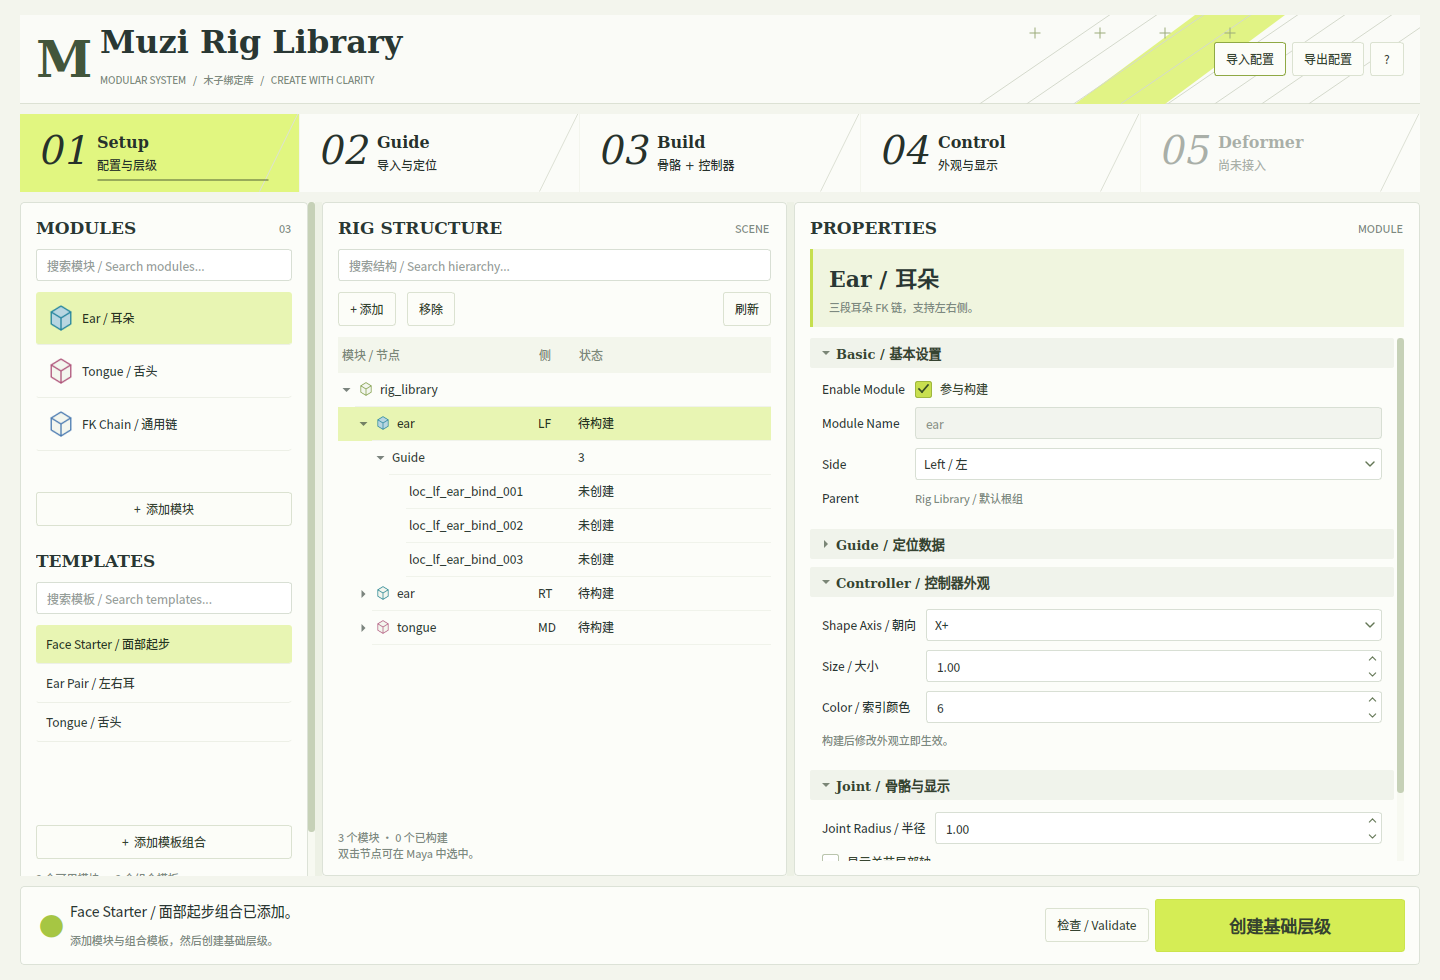
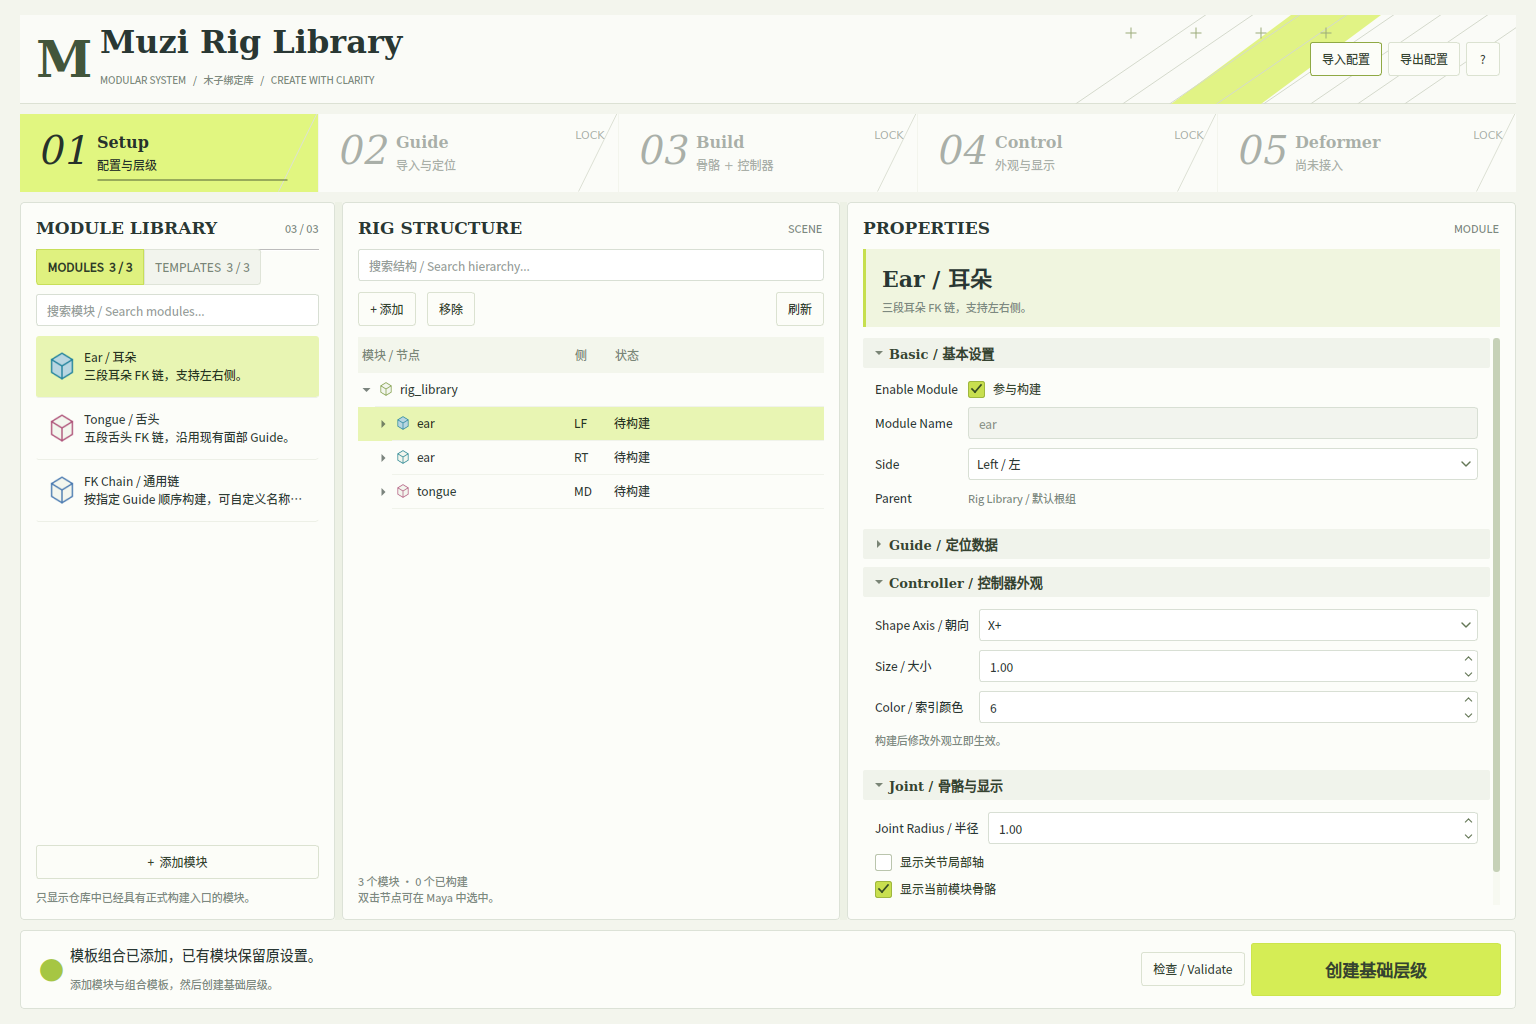
feat: refine rig library module and template browser

diff --git a/systems/rig/ui/modular_rig_ui.py b/systems/rig/ui/modular_rig_ui.py
@@ -112,41 +112,52 @@ class ModularRigWindow(QtWidgets.QWidget):
         self.splitter = QtWidgets.QSplitter(Qt.Horizontal)
         self.splitter.setChildrenCollapsible(False)
         self.splitter.setHandleWidth(7)
-        self.left_panel, left = self._panel(u"MODULES", "03")
+        self.left_panel, left = self._panel(u"MODULE LIBRARY", "03 / 03")
         self.left_panel.setMinimumWidth(225)
-        left.setSizeConstraint(QtWidgets.QLayout.SetMinAndMaxSize)
+
+        self.library_tabs = QtWidgets.QTabWidget()
+        self.library_tabs.setObjectName("LibraryTabs")
+        self.library_tabs.setDocumentMode(True)
+
+        self.module_page = QtWidgets.QWidget()
+        module_layout = QtWidgets.QVBoxLayout(self.module_page)
+        module_layout.setContentsMargins(0, 10, 0, 0)
+        module_layout.setSpacing(10)
         self.module_search = QtWidgets.QLineEdit()
         self.module_search.setPlaceholderText(u"搜索模块 / Search modules...")
         self.module_search.textChanged.connect(self.filter_modules)
-        left.addWidget(self.module_search)
+        module_layout.addWidget(self.module_search)
         self.module_list = QtWidgets.QListWidget()
-        self.module_list.setIconSize(QtCore.QSize(30, 30))
-        self.module_list.setMinimumHeight(176)
+        self.module_list.setIconSize(QtCore.QSize(32, 32))
         self.module_list.itemDoubleClicked.connect(self.add_selected_module)
-        left.addWidget(self.module_list, 1)
+        module_layout.addWidget(self.module_list, 1)
         self.add_button = button(u"+  添加模块", self.add_selected_module)
-        left.addWidget(self.add_button)
-        left.addSpacing(14)
-        left.addWidget(label("TEMPLATES", "panelTitle"))
+        module_layout.addWidget(self.add_button)
+        module_note = label(u"只显示仓库中已经具有正式构建入口的模块。", "muted")
+        module_note.setWordWrap(True)
+        module_layout.addWidget(module_note)
+
+        self.template_page = QtWidgets.QWidget()
+        template_layout = QtWidgets.QVBoxLayout(self.template_page)
+        template_layout.setContentsMargins(0, 10, 0, 0)
+        template_layout.setSpacing(10)
         self.template_search = QtWidgets.QLineEdit()
         self.template_search.setPlaceholderText(u"搜索模板 / Search templates...")
         self.template_search.textChanged.connect(self.filter_templates)
-        left.addWidget(self.template_search)
+        template_layout.addWidget(self.template_search)
         self.template_list = QtWidgets.QListWidget()
-        self.template_list.setMinimumHeight(155)
+        self.template_list.setIconSize(QtCore.QSize(32, 32))
         self.template_list.itemDoubleClicked.connect(self.add_selected_template)
-        left.addWidget(self.template_list, 1)
-        left.addWidget(button(u"+  添加模板组合", self.add_selected_template))
-        note = label(u"3 个可用模块 · 3 个组合模板\n面部 Guide 沿用仓库现有模板", "muted")
-        note.setWordWrap(True)
-        left.addWidget(note)
-        self.library_scroll = QtWidgets.QScrollArea()
-        self.library_scroll.setWidgetResizable(True)
-        self.library_scroll.setFrameShape(QtWidgets.QFrame.NoFrame)
-        self.library_scroll.setMinimumWidth(245)
-        self.library_scroll.setHorizontalScrollBarPolicy(Qt.ScrollBarAlwaysOff)
-        self.library_scroll.setWidget(self.left_panel)
-        self.splitter.addWidget(self.library_scroll)
+        template_layout.addWidget(self.template_list, 1)
+        template_layout.addWidget(button(u"+  添加模板组合", self.add_selected_template))
+        template_note = label(u"模板仅组合当前可用模块，不包含 Maya 场景数据。", "muted")
+        template_note.setWordWrap(True)
+        template_layout.addWidget(template_note)
+
+        self.library_tabs.addTab(self.module_page, u"MODULES  03")
+        self.library_tabs.addTab(self.template_page, u"TEMPLATES  03")
+        left.addWidget(self.library_tabs, 1)
+        self.splitter.addWidget(self.left_panel)
 
         self.center_panel, center = self._panel("RIG STRUCTURE", "SCENE")
         self.center_panel.setMinimumWidth(315)
@@ -155,7 +166,7 @@ class ModularRigWindow(QtWidgets.QWidget):
         self.tree_search.textChanged.connect(self.filter_tree)
         center.addWidget(self.tree_search)
         toolbar = QtWidgets.QHBoxLayout()
-        toolbar.addWidget(button(u"+ 添加", self.add_selected_module))
+        toolbar.addWidget(button(u"+ 添加", self.open_module_library, u"切换到左侧模块库"))
         self.remove_button = button(u"移除", self.remove_current, u"仅移除尚未构建的模块配置")
         toolbar.addWidget(self.remove_button)
         toolbar.addStretch(1)
@@ -325,17 +336,22 @@ class ModularRigWindow(QtWidgets.QWidget):
     def _populate_library(self):
         u"""目录完全来自已登记模块，不展示旧界面的演示数据。"""
         for entry in catalog.modules:
-            item = QtWidgets.QListWidgetItem(module_icon(entry["color"]), entry["title"])
+            item_text = u"{}\n{}".format(entry["title"], entry["description"])
+            item = QtWidgets.QListWidgetItem(module_icon(entry["color"]), item_text)
+            item.setSizeHint(QtCore.QSize(0, 62))
             item.setData(Qt.UserRole, entry["key"])
             item.setToolTip(entry["description"])
             self.module_list.addItem(item)
         for entry in catalog.templates:
-            item = QtWidgets.QListWidgetItem(entry["title"])
+            item_text = u"{}\n{}".format(entry["title"], entry["description"])
+            item = QtWidgets.QListWidgetItem(module_icon("#8fac35"), item_text)
+            item.setSizeHint(QtCore.QSize(0, 62))
             item.setData(Qt.UserRole, entry["key"])
             item.setToolTip(entry["description"])
             self.template_list.addItem(item)
         self.module_list.setCurrentRow(0)
         self.template_list.setCurrentRow(0)
+        self._update_library_counts()
 
     def _filter_list(self, widget, text):
         for index in range(widget.count()):
@@ -345,10 +361,37 @@ class ModularRigWindow(QtWidgets.QWidget):
     def filter_modules(self, text):
         u"""按名称和说明过滤模块。"""
         self._filter_list(self.module_list, text)
+        self._update_library_counts()
 
     def filter_templates(self, text):
         u"""按名称和组成过滤模板。"""
         self._filter_list(self.template_list, text)
+        self._update_library_counts()
+
+    def _visible_item_count(self, widget):
+        u"""统计搜索后仍可见的目录项目。"""
+        count = 0
+        for index in range(widget.count()):
+            if not widget.item(index).isHidden():
+                count += 1
+        return count
+
+    def _update_library_counts(self):
+        u"""在 Tab 标题中显示可见数和总数。"""
+        self.library_tabs.setTabText(
+            0,
+            u"MODULES  {} / {}".format(self._visible_item_count(self.module_list), self.module_list.count())
+        )
+        self.library_tabs.setTabText(
+            1,
+            u"TEMPLATES  {} / {}".format(self._visible_item_count(self.template_list), self.template_list.count())
+        )
+
+    def open_module_library(self):
+        u"""从结构工具栏回到模块目录，准备添加新模块。"""
+        self.library_tabs.setCurrentIndex(0)
+        self.module_search.setFocus()
+        self._status(u"请从左侧选择模块，双击或点击“添加模块”。")
 
     def filter_tree(self, text):
         u"""保留命中子节点的父模块，便于从搜索结果定位层级。"""

diff --git a/tests/rig_library_qt_test.py b/tests/rig_library_qt_test.py
@@ -37,6 +37,10 @@ class RigLibraryQtTests(unittest.TestCase):
         self.window.module_search.setText("tongue")
         self.assertTrue(self.window.module_list.item(0).isHidden())
         self.assertFalse(self.window.module_list.item(1).isHidden())
+        self.assertEqual(self.window.library_tabs.tabText(0), "MODULES  1 / 3")
+        self.window.library_tabs.setCurrentIndex(1)
+        self.window.template_search.setText("Ear Pair")
+        self.assertEqual(self.window.library_tabs.tabText(1), "TEMPLATES  1 / 3")
         self.window.tree_search.setText("tongue")
         root = self.window.module_tree.topLevelItem(0)
         self.assertTrue(root.child(0).isHidden())
@@ -73,10 +77,16 @@ class RigLibraryQtTests(unittest.TestCase):
         application.processEvents()
         for step in self.window.step_buttons:
             self.assertEqual(step.height(), 78)
-        self.assertGreater(self.window.library_scroll.verticalScrollBar().maximum(), 0)
-        self.assertGreater(self.window.template_search.y(), self.window.module_list.geometry().bottom())
+        self.assertEqual(self.window.library_tabs.count(), 2)
+        self.assertGreater(self.window.module_list.viewport().height(), 150)
         self.assertGreater(self.window.build_button.width(), 200)
         self.assertTrue(self.window.windowFlags() & Qt.WindowMinimizeButtonHint)
+
+    def test_structure_add_button_opens_module_library(self):
+        self.window.library_tabs.setCurrentIndex(1)
+        self.window.open_module_library()
+        self.assertEqual(self.window.library_tabs.currentIndex(), 0)
+        self.assertTrue(self.window.module_search.hasFocus())
 
     def test_inline_validation_preserves_records(self):
         self.window.add_selected_module()

diff --git a/systems/rig/ui/library_style.py b/systems/rig/ui/library_style.py
@@ -17,6 +17,15 @@ QLabel[role="status"] { font-size: 14px; }
 QFrame#HeaderFrame { background: #fafbf7; border-bottom: 1px solid #dce1d4; }
 QFrame[role="panel"] { background: #fcfdf9; border: 1px solid #dce2d7; border-radius: 4px; }
 QFrame#ModuleBanner { background: #f0f5df; border: 0; border-left: 3px solid #c6df4e; }
+QTabWidget#LibraryTabs::pane { border: none; background: transparent; top: -1px; }
+QTabBar::tab {
+    background: #f2f4ed; color: #7a8678; border: 1px solid #dfe4d8;
+    padding: 8px 10px; min-width: 82px;
+}
+QTabBar::tab:first { border-top-left-radius: 3px; border-bottom-left-radius: 3px; }
+QTabBar::tab:last { border-top-right-radius: 3px; border-bottom-right-radius: 3px; }
+QTabBar::tab:selected { background: #dff17f; color: #2d3c28; border-color: #c8df59; font-weight: bold; }
+QTabBar::tab:hover:!selected { background: #eef3df; color: #52604d; }
 QLineEdit, QComboBox, QDoubleSpinBox, QSpinBox, QPlainTextEdit {
     background: #ffffff; color: #2c3b34; border: 1px solid #d8dfd4;
     border-radius: 3px; padding: 5px 8px; min-height: 20px;
